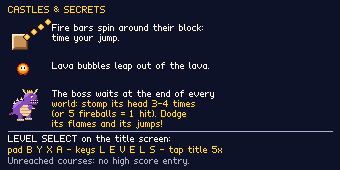
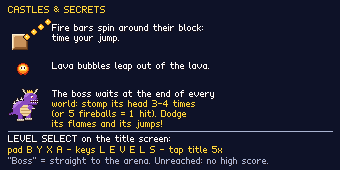
v0.9.1: Levelauswahl mit "Boss"-Knopf direkt in die Boss-Arena
Die Levelauswahl startete Burgen nur am Eingang - bis zum Boss musste man
die ganze Burg schaffen. Pro Welt startet "Boss" jetzt direkt vor der
Arena; ein Tod dort setzt an derselben Stelle wieder ein.

Changed region(s): [[0.0294, 0.9118, 0.5882, 0.9706], [0.6176, 0.9118, 0.7941, 0.9706]]

diff --git a/tools/gen_help.py b/tools/gen_help.py
@@ -377,7 +377,7 @@ def page_castles():
     d.line((8, 131, 332, 131), fill=DIM)
     text(d, (8, 135), "LEVEL SELECT on the title screen:", fill=WHITE)
     text(d, (8, 146), "pad B Y X A - keys L E V E L S - tap title 5x", fill=GOLD)
-    text(d, (8, 157), "Unreached courses: no high score entry.", fill=DIM)
+    text(d, (8, 157), "\"Boss\" = straight to the arena. Unreached: no high score.", fill=DIM)
     return img
 
 

diff --git a/CLAUDE.md b/CLAUDE.md
@@ -314,6 +314,9 @@ erreichten (`[progress] level`, ID-basiert) sind orange; wer so einen
 startet, spielt einen „cheated“ Lauf: kein Hall-of-Fame-Eintrag (Hinweis
 statt Namensfeld), kein Fortschritt gespeichert, „Play Again“ bleibt
 cheated. Hilfeseite „Castles & Secrets“.
+Pro Welt zusätzlich ein Knopf **„Boss“** (v0.9.1): startet die Burg mit
+`checkpoint_pos` 3 Spalten vor `ARENA` (`_start_game(i, cheat, at_boss)`),
+Tod im Bosskampf → Neustart ebenda. Orange = Burg noch nicht erreicht.
 
 ## App-Icon (v0.5)
 
